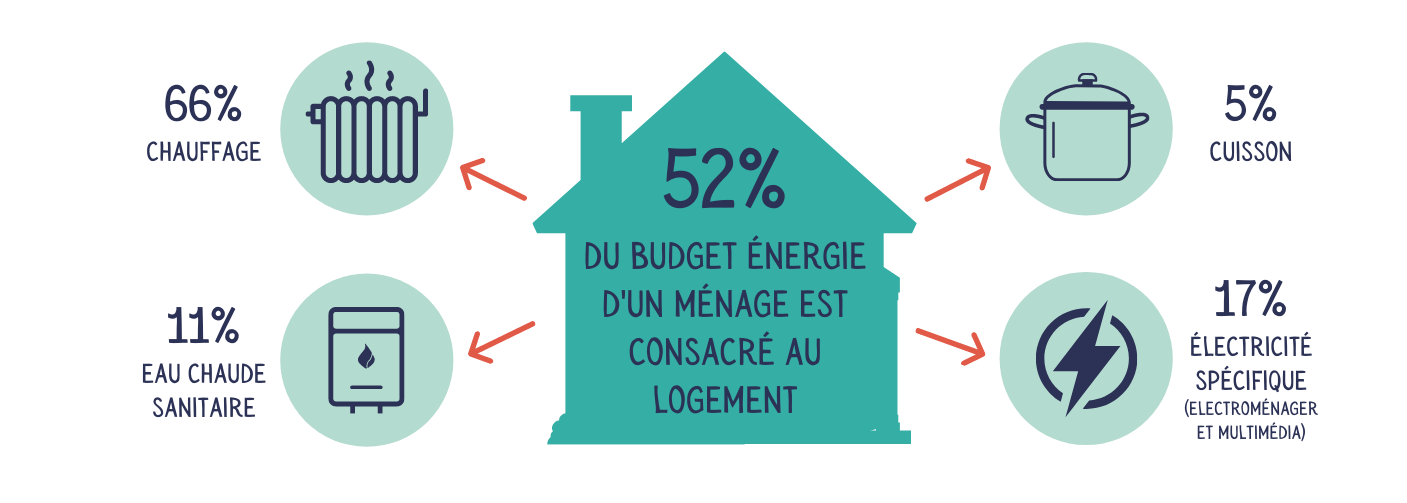
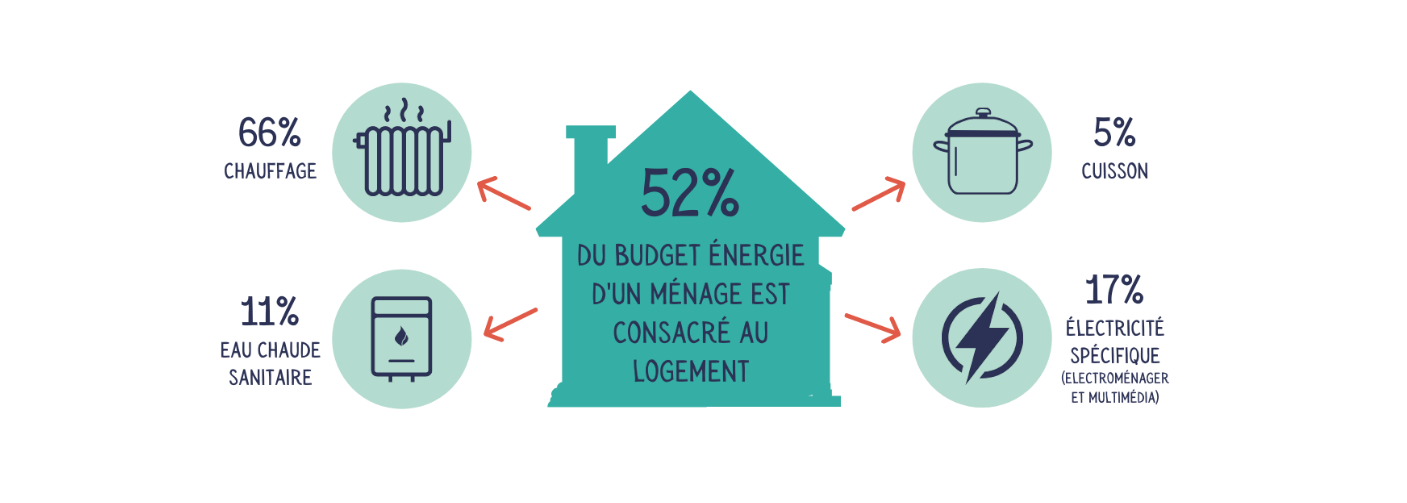
COMMIT 3.0

Changed region(s): [[0.0917, 0.0596, 0.9474, 0.8946], [0.8557, 0.5368, 0.9168, 0.6262]]

diff --git a/CSS/infos_budget.css b/CSS/infos_budget.css
@@ -94,36 +94,39 @@ p {
     color: white;
 }
 
-#image1, #image2, #image3 {
+#image1, #image2, #image3, #image4 {
     width: 100%;
-    height: 13rem;
-    margin: 2rem 0;
-    background-size: cover;
+
 }
 
-#image1 {
-    background-image: url("../IMG/Des_chffres_qui_parlent_1.png");
+#image1, #image2 {
+    margin: 2rem 0 2rem 0;
 }
 
-#image2 {
-    background-image: url("../IMG/Des_chiffres_qui_parlent_2.png");
+#image3, #image4 {
+    margin-top: 2rem;
+    margin-left: 5rem;
 }
 
-#image3 {
-    background-image: url("../IMG/Des_chiffres_qui_parlent_3.png");
+#image4 {
+    margin-top: 0;
 }
 
-.image, .image_two,.image_three {
-    width: 100%;
+#container_image3_and_image4 {
+    display: flex;
+    flex-direction: column;
+}
+
+.image1 {
     height: 15rem;
 }
 
-.image_two {
-    height: 15rem;
+.image1, .image2 {
+    width: 100%;
 }
 
-.image_three {
-    height: 9rem;
+.image3, .image4 {
+    width: 70%;
 }
 
 #retour {

diff --git a/PHP/infos_budget.php b/PHP/infos_budget.php
@@ -48,7 +48,9 @@
                 Pourtant cela représente en moyenne 2900€ par ménage et par an.
             </p>
         </div>
-        <div id="image1"></div>
+        <div id="image1">
+            <img src="../IMG/Des_chffres_qui_parlent_1.png" alt="image1" class="image1">
+        </div>
     </div>
     <div id="container_title_elec">
         <a href="./infos_budget.php?electricite">
@@ -56,7 +58,9 @@
         </a>
     </div>
     <div id="electricite" <?= $container_electricite ?>>
-        <div id="image2"></div>
+        <div id="image2">
+            <img src="../IMG/Des_chiffres_qui_parlent_2.png" alt="image2" class="image2">
+        </div>
     </div>
     <div id="container_title_eau">
         <a href="./infos_budget.php?eau">
@@ -68,8 +72,12 @@
             <p class="eau">143 litres d’eau potable par français/jour c’est beaucoup !</p>
         </div>
         <div id="container_image3_and_image4">
-            <div id="image3"></div>
-            <div id="image4"></div>
+            <div id="image3">
+                <img src="../IMG/Des_chiffres_qui_parlent_3.png" alt="image3" class="image3">
+            </div>
+            <div id="image4">
+                <img src="../IMG/Des_chiffres_qui_parlent_4.png" alt="image4" class="image4">
+            </div>
         </div>
     </div>
     <div id="retour">
